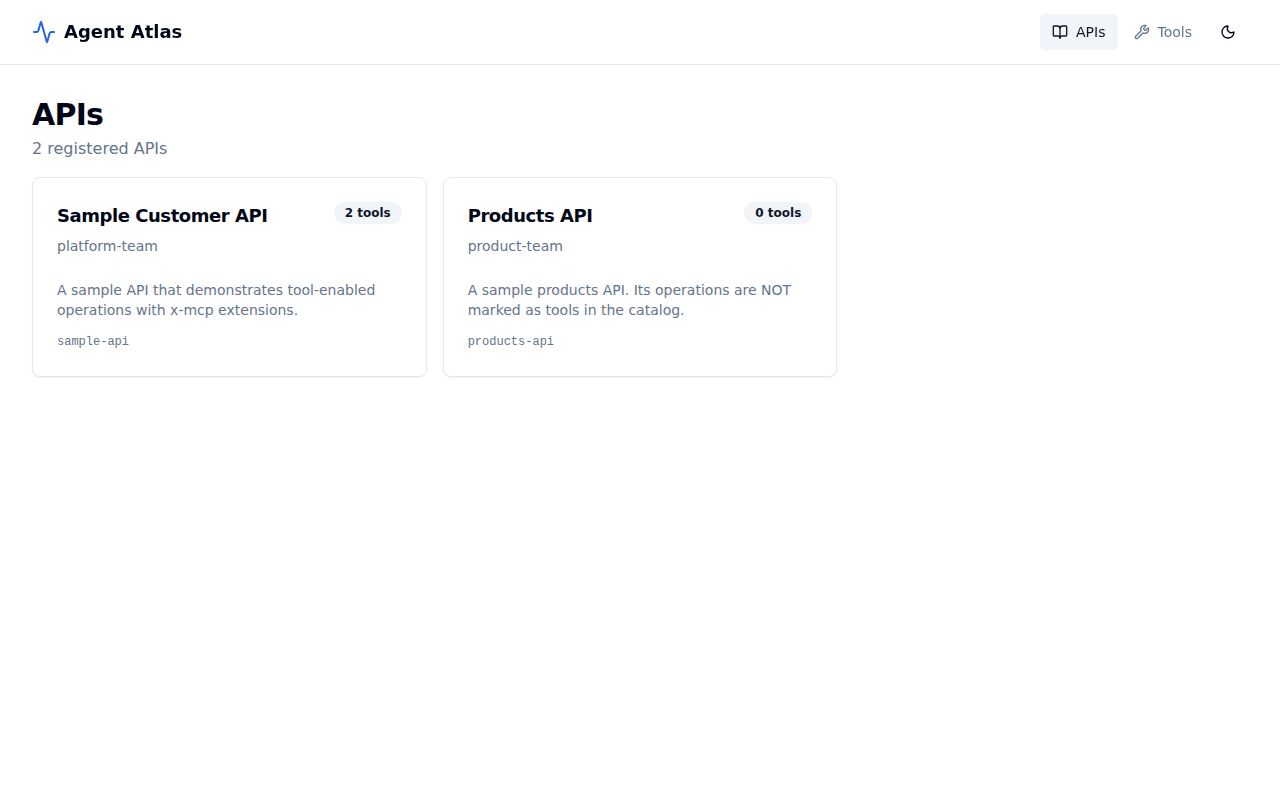
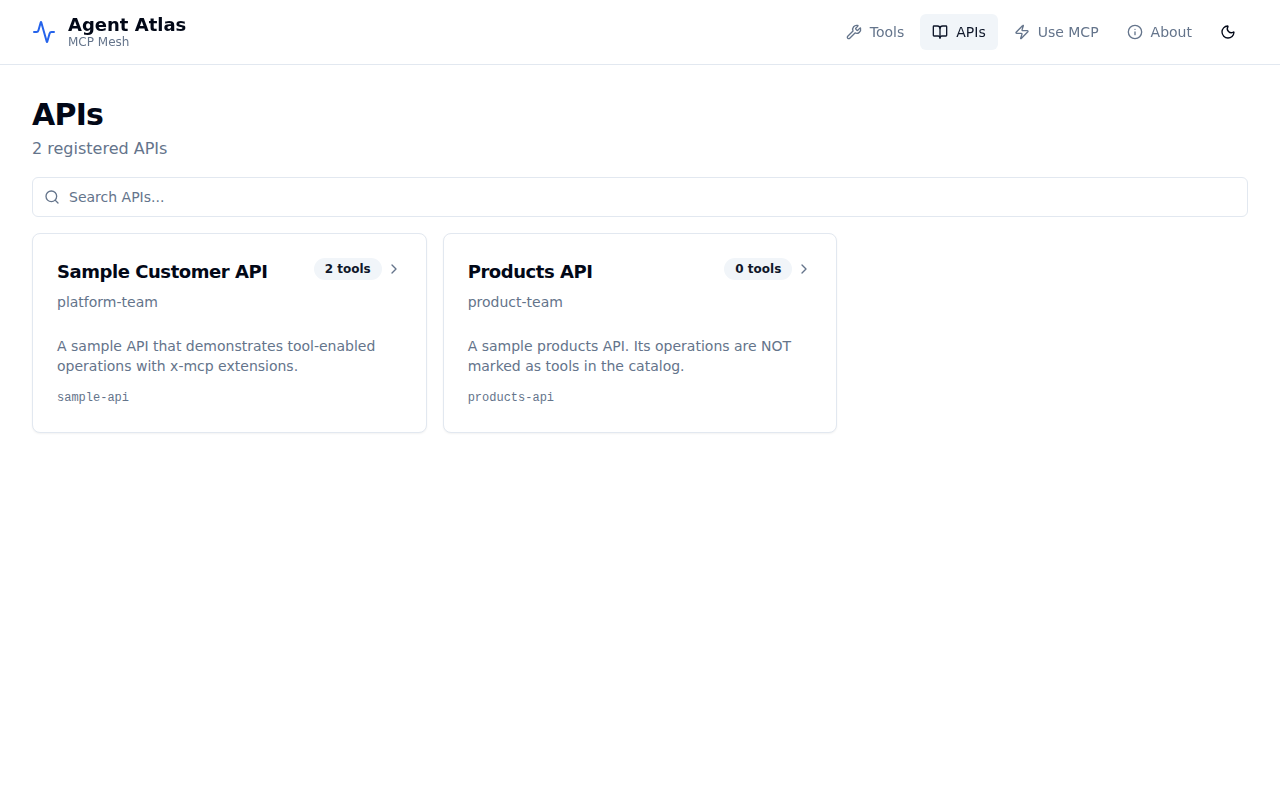
docs: add live screenshots and UI walkthrough page

diff --git a/docs/walkthrough.md b/docs/walkthrough.md
@@ -1,0 +1,73 @@
+---
+title: UI Walkthrough
+nav_order: 2
+---
+
+# UI Walkthrough
+
+Agent Atlas ships a read-only React UI that serves as the **capability map** for your organisation — a single place for developers, operators, and AI agents to discover what tools are available, who owns them, and what access is required.
+
+The UI is served from Atlas.Host at `/` and requires no authentication to browse (catalog read endpoints are open).
+
+---
+
+## Tools
+
+The **Tools** tab lists every operation that has been published as an MCP tool via the `x-mcp` vendor extension in an OpenAPI spec.
+
+Each card shows:
+- The stable tool ID (e.g. `sample-api.customers.list`)
+- The safety tier badge — **read**, **write**, or **destructive**
+- The HTTP method and path
+- The owning API ID
+- Tags
+
+![Agent Atlas — tools list (light mode)](screenshots/01-tools-list-light.png)
+
+### Tool detail
+
+Click any card to open the detail panel. This shows the full tool metadata: description, required permissions, entitlement hint (telling users exactly how to request access), operation ID, and tags.
+
+![Agent Atlas — tool detail (light mode)](screenshots/02-tool-detail-light.png)
+
+---
+
+## APIs
+
+The **APIs** tab lists every API registered in the catalog, whether or not any of its operations are published as tools. This gives operators a complete view of what is known to the system.
+
+Each card shows:
+- API display name and ID
+- Owning team
+- Description
+- Tool count — how many operations from this API are exposed as MCP tools
+
+![Agent Atlas — APIs list (light mode)](screenshots/03-apis-list-light.png)
+
+---
+
+## Use MCP
+
+The **Use MCP** tab gives developers a quick-start guide to connecting their AI coding assistant to Agent Atlas. It shows the MCP endpoint URL and provides ready-to-copy configuration snippets for VS Code (GitHub Copilot), Cursor, Claude Desktop, Claude Code, Windsurf, and M365 Copilot.
+
+![Agent Atlas — connect via MCP (light mode)](screenshots/07-use-mcp-light.png)
+
+---
+
+## Dark mode
+
+All views support light and dark themes. Toggle with the moon/sun icon in the top-right corner.
+
+| Light | Dark |
+|-------|------|
+| ![Tools list light](screenshots/01-tools-list-light.png) | ![Tools list dark](screenshots/04-tools-list-dark.png) |
+| ![APIs list light](screenshots/03-apis-list-light.png) | ![APIs list dark](screenshots/05-apis-list-dark.png) |
+| ![Tool detail light](screenshots/02-tool-detail-light.png) | ![Tool detail dark](screenshots/06-tool-detail-dark.png) |
+
+---
+
+## About
+
+The **About** tab contains a full explanation of the Agent Atlas architecture, the GitOps publishing model, the security design, and the strategic rationale. It includes a live SVG architecture diagram.
+
+![Agent Atlas — about page (dark mode)](screenshots/08-about-dark.png)

diff --git a/README.md b/README.md
@@ -181,17 +181,17 @@ It enables consistent agent experiences across domains, shared patterns for tool
 
 The read-only UI is the **capability map** for your organisation — a single place for developers, operators, and AI agents to discover what tools are available, who owns them, and what access is required.
 
-**Tools list (light mode)** — browse all registered tools with safety tier, method/path, and tags at a glance:
+**Tools list** — browse all registered tools with safety tier, method/path, and tags at a glance:
 
-![Agent Atlas — tools list (light mode)](https://github.com/user-attachments/assets/8871c0d7-64a1-4c34-9031-bf7d14b53c54)
+| Light | Dark |
+|-------|------|
+| ![Tools list light](docs/screenshots/01-tools-list-light.png) | ![Tools list dark](docs/screenshots/04-tools-list-dark.png) |
 
 **Tool detail** — click any tool to see the full metadata including description, required permissions, and the entitlement hint that tells users exactly how to request access:
 
-![Agent Atlas — tool detail panel](https://github.com/user-attachments/assets/3e49dc4c-2b06-40f1-9419-ef19898d5470)
-
-**Dark mode** — all views support light and dark themes:
-
-![Agent Atlas — tools list (dark mode)](docs/screenshots/04-tools-list-dark.png)
+| Light | Dark |
+|-------|------|
+| ![Tool detail light](docs/screenshots/02-tool-detail-light.png) | ![Tool detail dark](docs/screenshots/06-tool-detail-dark.png) |
 
 **APIs list** — all registered APIs with owner, tool count, and API ID:
 
@@ -199,9 +199,11 @@ The read-only UI is the **capability map** for your organisation — a single pl
 |-------|------|
 | ![APIs list light](docs/screenshots/03-apis-list-light.png) | ![APIs list dark](docs/screenshots/05-apis-list-dark.png) |
 
-**Tool detail (dark mode)**:
+**Use MCP** — one-click setup snippets for VS Code, Cursor, Claude Desktop, Claude Code, Windsurf, and M365 Copilot:
 
-![Agent Atlas — tool detail (dark mode)](docs/screenshots/06-tool-detail-dark.png)
+| Light | Dark |
+|-------|------|
+| ![Use MCP light](docs/screenshots/07-use-mcp-light.png) | ![Use MCP dark](docs/screenshots/07-use-mcp-dark.png) |
 
 ---
 

diff --git a/docs/index.md b/docs/index.md
@@ -52,6 +52,7 @@ Browse the full documentation using the navigation on the left (or above on mobi
 
 | Page | Description |
 |---|---|
+| [UI Walkthrough](walkthrough) | Screenshots and tour of the Tools, APIs, Use MCP, and About pages |
 | [Security Model](security-model) | Two-layer auth model — platform permissions + downstream API auth |
 | [GitOps Data Plane](gitops-data-plane) | Catalog repo structure and `x-mcp` extension reference |
 | [Deploy with Docker](deploy-docker) | Docker deployment guide including published image details |

diff --git a/docs/CONFIGURATION.md b/docs/CONFIGURATION.md
@@ -1,6 +1,6 @@
 ---
 title: Configuration Guide
-nav_order: 7
+nav_order: 8
 ---
 
 # Configuration Steps for GitHub Pages & Agentic Documentation

diff --git a/docs/security-model.md b/docs/security-model.md
@@ -1,6 +1,6 @@
 ---
 title: Security Model
-nav_order: 2
+nav_order: 3
 ---
 
 # Security Model: Platform Permissions vs Downstream Auth

diff --git a/docs/gitops-data-plane.md b/docs/gitops-data-plane.md
@@ -1,6 +1,6 @@
 ---
 title: GitOps Data Plane
-nav_order: 3
+nav_order: 4
 ---
 
 # GitOps Data Plane Repo Structure

diff --git a/docs/deploy-docker.md b/docs/deploy-docker.md
@@ -1,6 +1,6 @@
 ---
 title: Deploy with Docker
-nav_order: 4
+nav_order: 5
 ---
 
 # Deploy Agent Atlas with Docker

diff --git a/docs/deploy-helm.md b/docs/deploy-helm.md
@@ -1,6 +1,6 @@
 ---
 title: Deploy with Helm
-nav_order: 5
+nav_order: 6
 ---
 
 # Deploy Agent Atlas with Helm

diff --git a/docs/pipelines.md b/docs/pipelines.md
@@ -1,6 +1,6 @@
 ---
 title: CI/CD Pipelines
-nav_order: 6
+nav_order: 7
 ---
 
 # CI/CD Pipeline Setup Guide
